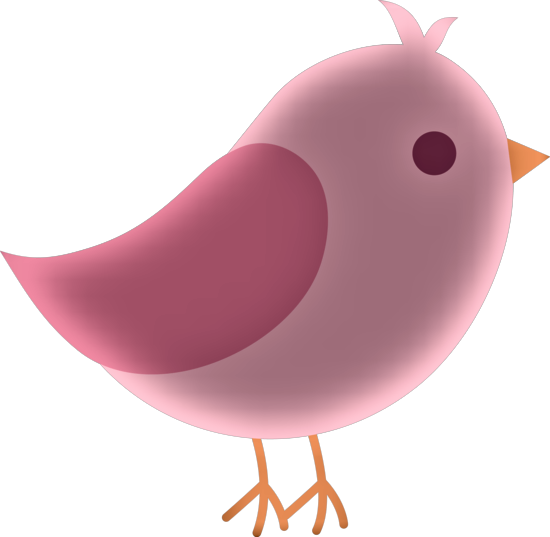
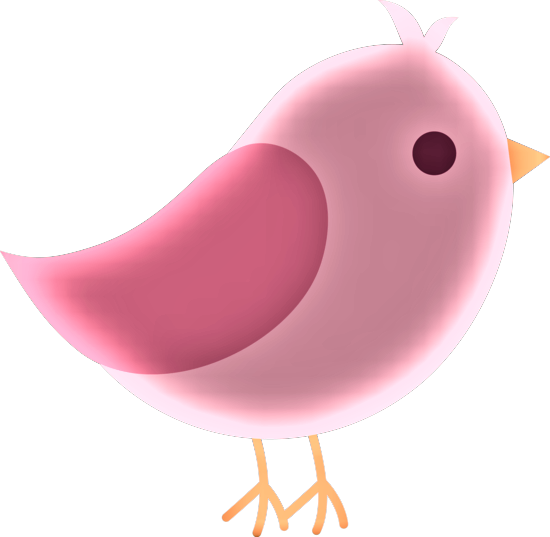
Barriers eklendi

diff --git a/lib/homePage.dart b/lib/homePage.dart
@@ -1,10 +1,12 @@
 import 'dart:async';
 
+import 'package:flappy_bird/barriers.dart';
 import 'package:flutter/material.dart';
 import 'package:flutter/src/foundation/key.dart';
 import 'package:flutter/src/widgets/framework.dart';
 
 import 'humBird.dart';
+import 'main.dart';
 
 class HomePage extends StatefulWidget {
   const HomePage({Key? key}) : super(key: key);
@@ -18,7 +20,12 @@ class _HomePageState extends State<HomePage> {
   double time = 0;
   double initialHeight = 0;
   double height = yaxis;
-  bool Hasstart = false;
+  bool hasStart = false;
+  static double barrierXone = 1.6;
+  static double barrierXtwo = barrierXone + 1.5;
+  double barrierXthree = barrierXtwo + 1.5;
+  int score = 0;
+  int highscore = 0;
 
   void jump() {
     setState(() {
@@ -27,90 +34,233 @@ class _HomePageState extends State<HomePage> {
     });
   }
 
+  bool fail() {
+    if (barrierXone < 0.2 && barrierXone > -0.2) {
+      if (yaxis < -0.3 || yaxis > 0.7) {
+        return true;
+      }
+    }
+    if (barrierXtwo < 0.2 && barrierXtwo > -0.2) {
+      if (yaxis < -0.8 || yaxis > 0.4) {
+        return true;
+      }
+    }
+    if (barrierXthree < 0.2 && barrierXthree > -0.2) {
+      if (yaxis < -0.4 || yaxis > 0.7) {
+        return true;
+      }
+    }
+    return false;
+  }
+
   void begin() {
-    Hasstart = true;
-    Timer.periodic(Duration(milliseconds: 50), (timer) {
+    hasStart = true;
+    Timer.periodic(const Duration(milliseconds: 50), (timer) {
       time += 0.05;
       //math function for fall
       height = -4.9 * time * time + 2.8 * time;
       setState(() {
         yaxis = initialHeight - height;
       });
-      if (yaxis > 1) {
+      setState(() {
+        if (barrierXone < -2) {
+          score++;
+          barrierXone += 4.5;
+        } else {
+          barrierXone -= 0.04;
+        }
+      });
+      setState(() {
+        if (barrierXtwo < -2) {
+          score++;
+
+          barrierXtwo += 4.5;
+        } else {
+          barrierXtwo -= 0.04;
+        }
+      });
+      setState(() {
+        if (barrierXthree < -2) {
+          score++;
+
+          barrierXthree += 4.5;
+        } else {
+          barrierXthree -= 0.04;
+        }
+      });
+      if (yaxis > 1 || fail()) {
         timer.cancel();
-        Hasstart = false;
+        hasStart = false;
+        _showDialog();
       }
     });
   }
 
+  void _showDialog() {
+    showDialog(
+        context: context,
+        builder: (BuildContext context) {
+          return AlertDialog(
+            backgroundColor: Colors.brown,
+            title: const Text(
+              "GAME OVER",
+              style: TextStyle(color: Colors.white),
+            ),
+            content: Text(
+              "Score: $score",
+              style: const TextStyle(color: Colors.white),
+            ),
+            actions: [
+              FlatButton(
+                child: const Text(
+                  "OK",
+                  style: TextStyle(color: Colors.white),
+                ),
+                onPressed: () {
+                  if (score > highscore) {
+                    highscore = score;
+                  }
+                  initState();
+                  setState(() {
+                    hasStart = false;
+                    Navigator.of(context).pop();
+                  });
+                },
+              )
+            ],
+          );
+        });
+  }
+
   @override
   Widget build(BuildContext context) {
-    return Scaffold(
-      body: Column(
-        children: [
-          Expanded(
+    return GestureDetector(
+      onTap: () {
+        if (hasStart) {
+          jump();
+        } else {
+          begin();
+        }
+      },
+      child: Scaffold(
+        body: Column(
+          children: [
+            Expanded(
               flex: 2,
-              child: GestureDetector(
-                onTap: () {
-                  if (Hasstart) {
-                    jump();
-                  } else {
-                    begin();
-                  }
-                },
-                child: AnimatedContainer(
-                  alignment: Alignment(0, yaxis),
-                  duration: Duration(milliseconds: 0),
-                  color: Colors.blue[200],
-                  child: HumBird(),
-                ),
-              )),
-          Container(
-            height: 15,
-            color: Colors.green[300],
-          ),
-          Expanded(
-              child: Container(
-            color: Colors.brown[400],
-            child: Row(
-              mainAxisAlignment: MainAxisAlignment.spaceEvenly,
-              children: [
-                Column(
-                  mainAxisAlignment: MainAxisAlignment.center,
-                  children: [
-                    Text(
-                      "Score: ",
-                      style: TextStyle(color: Colors.white, fontSize: 20),
+              child: Stack(
+                children: [
+                  AnimatedContainer(
+                    alignment: Alignment(0, yaxis),
+                    duration: const Duration(milliseconds: 0),
+                    color: Colors.blue[200],
+                    child: const HumBird(),
+                  ),
+                  Container(
+                    alignment: const Alignment(-0.1, -0.2),
+                    child: hasStart
+                        ? const Text(" ")
+                        : const Text(
+                            "T A P   T O   P LA Y",
+                            style: TextStyle(
+                              fontSize: 20,
+                              color: Color.fromARGB(255, 32, 60, 83),
+                            ),
+                          ),
+                  ),
+                  AnimatedContainer(
+                    alignment: Alignment(barrierXone, 1.1),
+                    duration: const Duration(milliseconds: 0),
+                    child: const Barrier(
+                      size: 200.0,
                     ),
-                    SizedBox(
-                      height: 20,
+                  ),
+                  AnimatedContainer(
+                    alignment: Alignment(barrierXone, -1.1),
+                    duration: const Duration(milliseconds: 0),
+                    child: const Barrier(
+                      size: 200.0,
                     ),
-                    Text(
-                      "0",
-                      style: TextStyle(color: Colors.white, fontSize: 20),
-                    )
-                  ],
-                ),
-                Column(
-                  mainAxisAlignment: MainAxisAlignment.center,
-                  children: [
-                    Text(
-                      "Best: ",
-                      style: TextStyle(color: Colors.white, fontSize: 20),
+                  ),
+                  AnimatedContainer(
+                    alignment: Alignment(barrierXtwo, -1.1),
+                    duration: const Duration(milliseconds: 0),
+                    child: const Barrier(
+                      size: 150.0,
                     ),
-                    SizedBox(
-                      height: 20,
+                  ),
+                  AnimatedContainer(
+                    alignment: Alignment(barrierXtwo, -1.1),
+                    duration: const Duration(milliseconds: 0),
+                    child: const Barrier(
+                      size: 250.0,
                     ),
-                    Text(
-                      "0",
-                      style: TextStyle(color: Colors.white, fontSize: 20),
-                    )
-                  ],
-                )
-              ],
+                  ),
+                  AnimatedContainer(
+                    alignment: Alignment(barrierXthree, 1.1),
+                    duration: const Duration(milliseconds: 0),
+                    child: const Barrier(
+                      size: 100.0,
+                    ),
+                  ),
+                  AnimatedContainer(
+                    alignment: Alignment(barrierXthree, -1.1),
+                    duration: const Duration(milliseconds: 0),
+                    child: const Barrier(
+                      size: 100.0,
+                    ),
+                  ),
+                ],
+              ),
             ),
-          )),
-        ],
+            Container(
+              height: 15,
+              color: Colors.green[300],
+            ),
+            Expanded(
+                child: Container(
+              color: Colors.brown[400],
+              child: Row(
+                mainAxisAlignment: MainAxisAlignment.spaceEvenly,
+                children: [
+                  Column(
+                    mainAxisAlignment: MainAxisAlignment.center,
+                    children: [
+                      const Text(
+                        "Score: ",
+                        style: TextStyle(color: Colors.white, fontSize: 20),
+                      ),
+                      const SizedBox(
+                        height: 20,
+                      ),
+                      Text(
+                        score.toString(),
+                        style:
+                            const TextStyle(color: Colors.white, fontSize: 20),
+                      )
+                    ],
+                  ),
+                  Column(
+                    mainAxisAlignment: MainAxisAlignment.center,
+                    children: [
+                      const Text(
+                        "Best: ",
+                        style: TextStyle(color: Colors.white, fontSize: 20),
+                      ),
+                      const SizedBox(
+                        height: 20,
+                      ),
+                      Text(
+                        highscore.toString(),
+                        style:
+                            const TextStyle(color: Colors.white, fontSize: 20),
+                      )
+                    ],
+                  )
+                ],
+              ),
+            )),
+          ],
+        ),
       ),
     );
   }

diff --git a/lib/barriers.dart b/lib/barriers.dart
@@ -1,0 +1,22 @@
+import 'package:flutter/material.dart';
+
+class Barrier extends StatelessWidget {
+  // ignore: use_key_in_widget_constructors
+  const Barrier({this.size});
+
+  // ignore: prefer_typing_uninitialized_variables
+  final size;
+
+  @override
+  Widget build(BuildContext context) {
+    return Container(
+      width: 100,
+      height: size,
+      decoration: BoxDecoration(
+          color: Colors.green[300],
+          border: Border.all(
+              width: 10, color: const Color.fromARGB(255, 89, 141, 92)),
+          borderRadius: BorderRadius.circular(10)),
+    );
+  }
+}

diff --git a/lib/humBird.dart b/lib/humBird.dart
@@ -1,16 +1,14 @@
 import 'package:flutter/cupertino.dart';
-import 'package:flutter/src/foundation/key.dart';
-import 'package:flutter/src/widgets/framework.dart';
 
 class HumBird extends StatelessWidget {
   const HumBird({Key? key}) : super(key: key);
 
   @override
   Widget build(BuildContext context) {
-    return Container(
+    return SizedBox(
       height: 60,
       width: 60,
-      child: Image.asset('images/bird.png'),
+      child: Image.asset('images/bird2.png'),
     );
   }
 }
